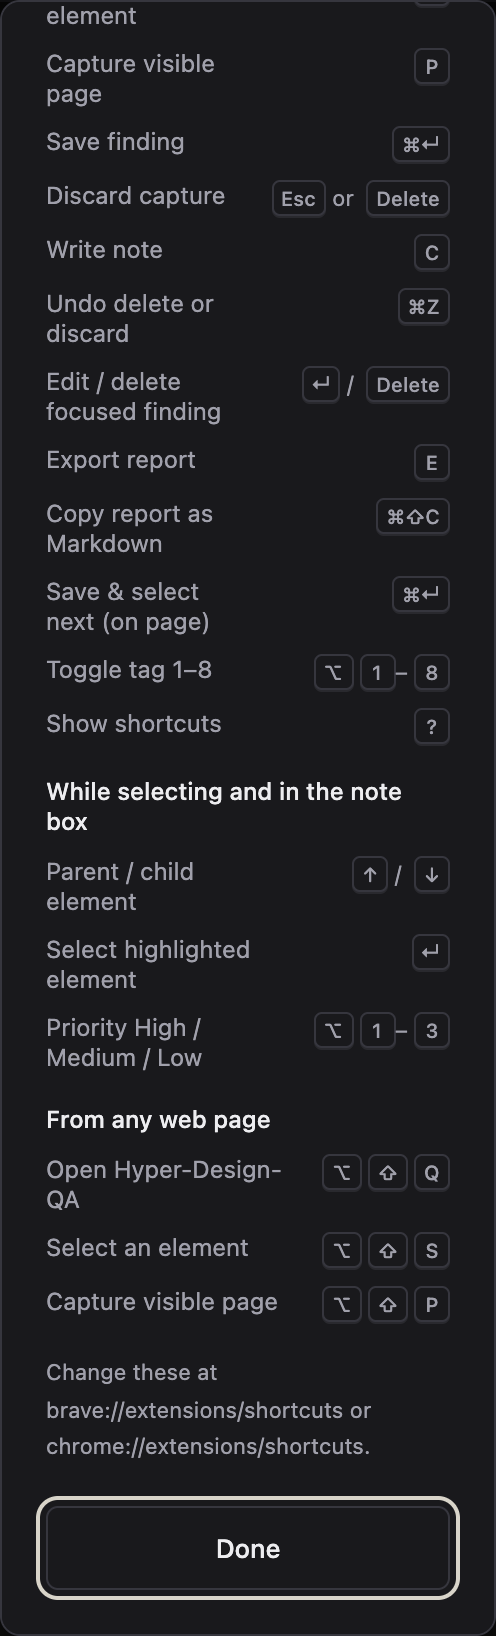
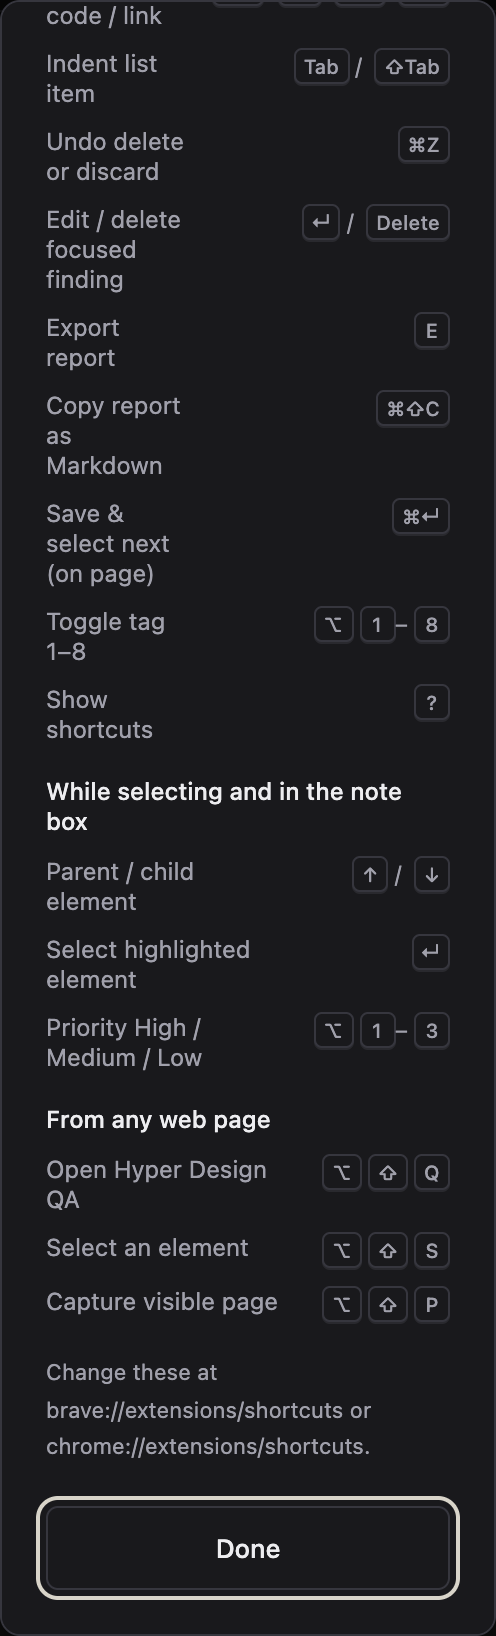
Refresh README screenshots, hero, and steps for 1.1.0

diff --git a/README.md b/README.md
@@ -6,32 +6,34 @@ Hyper Design QA is a Chrome/Brave extension for design QA. Select any element on
 
 [What's new](CHANGELOG.md) · [Privacy policy](https://hyper-design-qa-privacy.mad7droid.chatgpt.site/privacy/) · [Design notes](DESIGN.md)
 
-<p>
-  <img src="docs/screenshots/findings.png" alt="Side panel with a saved finding" width="300">
-  <img src="docs/screenshots/light-grouped.png" alt="Findings grouped by page, light mode" width="300">
-</p>
+![Hyper Design QA beside a website](docs/screenshots/hero.png)
 
 ## Highlights
 
-- **Rich notes, styled as you type,** with Markdown lists, bold, italic, code, and links (`⌘B` `⌘I` `⌘E` `⌘K`).
-- **Precise selection.** A label shows the element name and size; `↑`/`↓` walks to the parent or child.
-- **Select and type.** Click an element and a note box opens beside it with the cursor ready. `↵` saves, `Esc` discards.
-- **Element specs captured for you:** selector, component name (React/Vue when available), size, typography, colour, spacing, and a screenshot with the element outlined.
-- **Save & next** (`⌘↵` in the note box) for marking many issues in a row.
-- **Quick tags** via chips, `⌥1`–`⌥8`, or `#hashtags` in the note.
-- **Copy Markdown** (`⌘⇧C`) to paste a report anywhere.
-- **Links per finding and per session.** Attach Figma frames, tickets, or specs. They're included in the export.
-- **Keyboard first.** `S` select, `P` capture page, `⌘↵` save, `⌘Z` undo, `E` export, `?` all shortcuts. Global shortcuts work from any page.
-- **Findings grouped by page** with thumbnails (click to jump back and re-highlight the element), a priority filter, and **Figma link** buttons.
-- **Works across pages and tabs.** Findings and unfinished notes are saved on your device as you go.
-- **Side panel or floating window**, light and dark themes.
-- **AI-ready export:** `report.md`, `session.json`, and marked PNGs in one ZIP.
+- **Select and type.** Click an element and a note box opens beside it, cursor ready. `↵` saves, `Esc` or `×` discards, `⌥1`–`⌥3` sets priority.
+- **Precise selection.** A label shows the element's name and size; `↑`/`↓` moves to the parent or child.
+- **Readable names.** `Button · “Reply”` instead of `div`, or the React/Vue component name when the site exposes one.
+- **Rich notes, styled as you type:** lists, bold, italic, code, and links (`⌘B` `⌘I` `⌘E` `⌘K`).
+- **Specs captured for you:** selector, size, typography, colour, spacing, a marked screenshot, and a close-up.
+- **Links and tags.** Attach Figma or design links per finding or per session; tag with chips, `⌥1`–`⌥8`, or `#hashtags`.
+- **Findings grouped by page** with thumbnails, a priority filter, and **Figma link** / **Design link** buttons.
+- **Keyboard first.** `S` select, `P` capture page, `⌘↵` save, `⌘Z` undo, `E` export, `?` all shortcuts.
+- **Export for people and AI:** a ZIP with `report.md`, `session.json`, and screenshots, named after the site and time; or **Copy Markdown** (`⌘⇧C`).
+- **Works across pages and tabs**, in a side panel or floating window, light or dark. Everything stays on your device.
 
-<img src="docs/screenshots/picker-label.png" alt="Picker with element label" width="420"> <img src="docs/screenshots/note-tip.png" alt="Note box beside the element with priority" width="420">
+<p>
+  <img src="docs/screenshots/picker-label.png" alt="Picker with element label and size" width="420">
+  <img src="docs/screenshots/live-note.png" alt="Note box beside the element with live formatting and priority" width="420">
+</p>
+<p>
+  <img src="docs/screenshots/findings.png" alt="Side panel with findings" width="270">
+  <img src="docs/screenshots/light-grouped.png" alt="Findings grouped by page, light mode" width="270">
+  <img src="docs/screenshots/editor.png" alt="Finding editor with links and tags" width="270">
+</p>
 
 ## Install locally
 
-Works in Google Chrome 116+ and Chromium browsers with side-panel support, such as Brave.
+Works in Google Chrome 116+ and Chromium browsers with side-panel support, such as Brave. A Chrome Web Store version is in review; until then, install it locally:
 
 1. Open `chrome://extensions` (or `brave://extensions`).
 2. Turn on **Developer mode**, then choose **Load unpacked**.
@@ -42,19 +44,16 @@ No build, account, API key, or server is required. After pulling updates, click 
 
 ## Review a website
 
-1. Name your session. Optionally add **Session links** (Figma file, spec, ticket).
-2. Press **S** or click **Select an element**, then click the element on the page. **Esc** cancels. **P** captures the visible page instead.
-3. Type your note in the box that appears beside the element. **↵** saves it, **⇧↵** adds a line, **Esc** discards it. Click away to keep the draft and finish it in the panel.
+1. Start reviewing. The session is named after the site automatically (rename it any time). Optionally add **Session links** (Figma file, spec, ticket).
+2. Press **S** or click **Select an element**, then click the element on the page. **↑/↓** picks the parent or child; **Esc** cancels. **P** captures the visible page instead.
+3. Type your note in the box that appears beside the element. **↵** saves it, **⇧↵** adds a line, **⌥1–3** sets priority, **Esc** or **×** discards it. Click away to keep the draft and finish it in the panel.
 4. In the panel you can add **Links**, rename the element, and set a priority. **⌘↵** / **Ctrl+↵** saves.
 5. Navigate to other pages or tabs and repeat. Use the pop-out icon for a floating window; **Return to side panel** docks it again.
 6. Press **E** or click **Export report**. Unzip it and attach `report.md` and the screenshots to Claude. **Download Markdown only** exports text without images.
 
 Edit or delete findings from their cards. Delete, discard, and new session can all be undone with **⌘Z** / **Ctrl+Z** or the Undo button. **Restore previous review** switches between the current and previous session.
 
-<p>
-  <img src="docs/screenshots/editor.png" alt="Finding editor with links field" width="300">
-  <img src="docs/screenshots/shortcuts.png" alt="Keyboard shortcuts" width="300">
-</p>
+<img src="docs/screenshots/shortcuts.png" alt="Keyboard shortcuts" width="300">
 
 ## Keyboard shortcuts
 

diff --git a/CHANGELOG.md b/CHANGELOG.md
@@ -2,7 +2,7 @@
 
 All notable changes to Hyper Design QA. Versions match `extension/manifest.json`.
 
-## 1.1.0 — 1 Nov 2026
+## 1.1.0 — 2 Nov 2026 · prepared for the Chrome Web Store
 
 ### Clearer names and controls
 - Product name is now **Hyper Design QA** (no hyphens).
